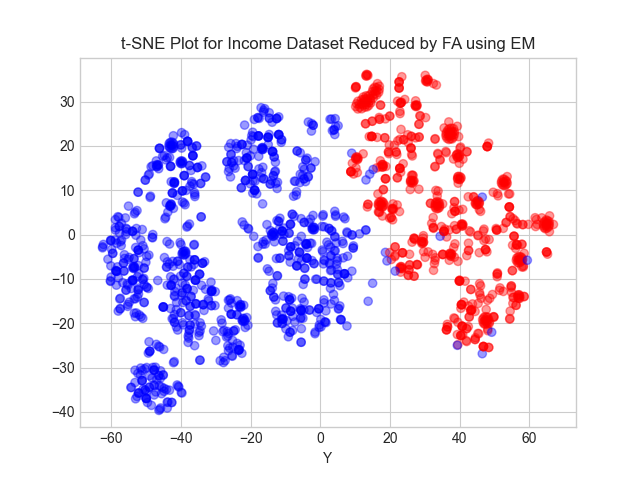
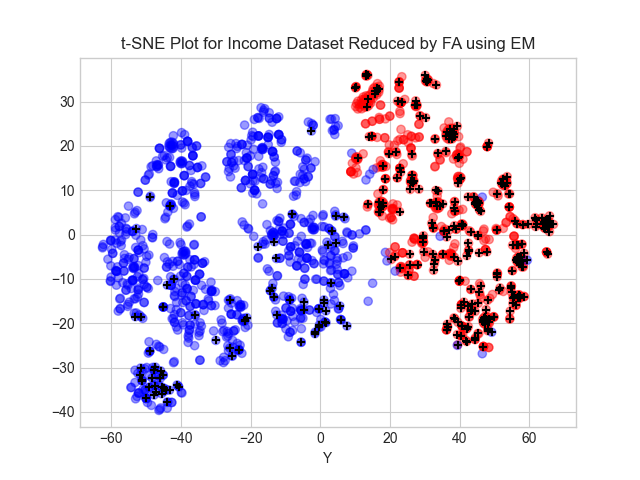
Made the changes to plot real labels for EM+FA.

diff --git a/Assignment 3/Clustering.py b/Assignment 3/Clustering.py
@@ -149,6 +149,7 @@ def getTsnePlot(dataset):
         if 'Income' in ds.name:
             clusterKM = 3
             clusterEM = 2
+            markerEM = ['+', 'x']
             paletteKM = ['red', 'green', 'blue']
             paletteEM = ['red', 'blue']
 
@@ -227,7 +228,6 @@ def getTsnePlot(dataset):
         print('For dataset ' + ds.name + ' using EM, the v_measure, AMIS, ARS and silhouette are: ',
               v_measureEM, AMISEM, ARSEM, silhouetteEM)
 
-        '''if clusterKM <= 2:'''
         fig = plt.figure()
         ax = fig.add_subplot()
         tsne = TSNE(n_components=2, random_state=0)
@@ -235,38 +235,27 @@ def getTsnePlot(dataset):
         ax.scatter(tsne_obj[:, 0], tsne_obj[:, 1], alpha=0.4, c=[paletteKM[x] for x in clustringY_KM])
         plt.xlabel('X')
         plt.xlabel('Y')
-        '''else:
-            fig = plt.figure()
-            ax = fig.add_subplot(projection='3d')
-            tsne = TSNE(n_components=3, random_state=0)
-            tsne_obj = tsne.fit_transform(ds.training_x)
-            ax.scatter(tsne_obj[:, 0], tsne_obj[:, 1], tsne_obj[:, 2], alpha=0.4, c=[paletteKM[x] for x in clustringY_KM])
+        if 'FA' in ds.name and 'Income' in ds.name:
+            plt.scatter(tsne_obj[ds.training_y == 1, 0], tsne_obj[ds.training_y == 1, 1], marker='+', c='k')
             plt.xlabel('X')
             plt.xlabel('Y')
-            plt.xlabel('Z')'''
 
         ax.set_title('t-SNE Plot for ' + ds.name + ' using KM')
         plt.legend()
         plt.savefig('Figures/Clustering/TSNE for ' + ds.name + ' using KM.png')
         plt.close()
 
-        if clusterEM <= 2:
-            fig = plt.figure()
-            ax = fig.add_subplot()
-            tsne = TSNE(n_components=2, random_state=0)
-            tsne_obj = tsne.fit_transform(ds.training_x)
-            ax.scatter(tsne_obj[:, 0], tsne_obj[:, 1], alpha=0.4, c=[paletteEM[x] for x in clustringY_EM])
+        fig = plt.figure()
+        ax = fig.add_subplot()
+        tsne = TSNE(n_components=2, random_state=0)
+        tsne_obj = tsne.fit_transform(ds.training_x)
+        ax.scatter(tsne_obj[:, 0], tsne_obj[:, 1], alpha=0.4, c=[paletteEM[x] for x in clustringY_EM])
+        plt.xlabel('X')
+        plt.xlabel('Y')
+        if 'FA' in ds.name and 'Income' in ds.name:
+            plt.scatter(tsne_obj[ds.training_y == 1, 0], tsne_obj[ds.training_y == 1, 1], marker='+', c='k')
             plt.xlabel('X')
             plt.xlabel('Y')
-        else:
-            fig = plt.figure()
-            ax = fig.add_subplot(projection='3d')
-            tsne = TSNE(n_components=3, random_state=0)
-            tsne_obj = tsne.fit_transform(ds.training_x)
-            ax.scatter(tsne_obj[:, 0], tsne_obj[:, 1], tsne_obj[:, 2], alpha=0.4, c=[paletteEM[x] for x in clustringY_EM])
-            plt.xlabel('X')
-            plt.xlabel('Y')
-            plt.xlabel('Z')
 
         ax.set_title('t-SNE Plot for ' + ds.name + ' using EM')
         plt.legend()
